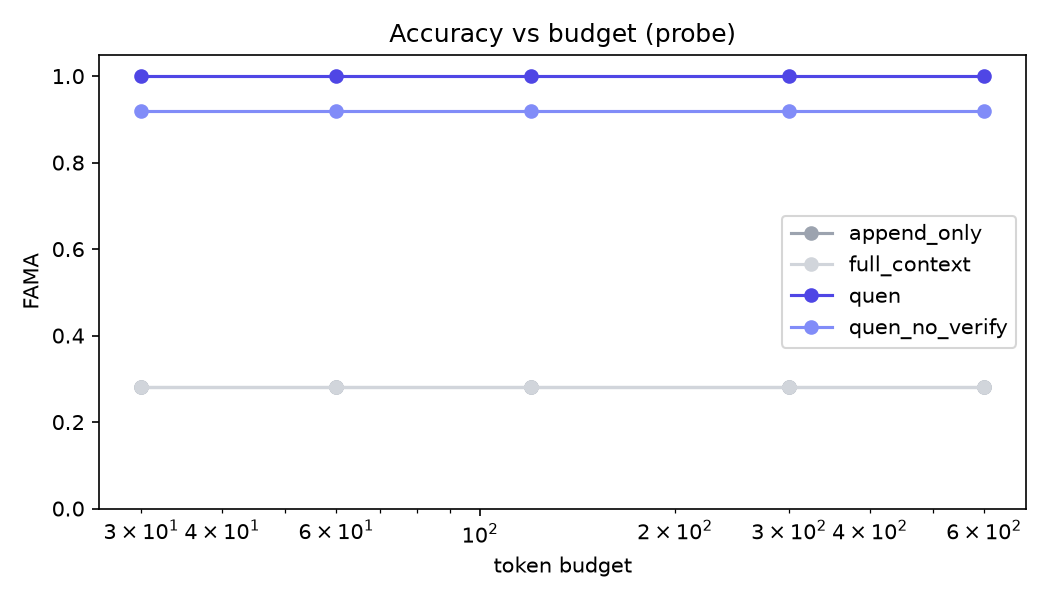
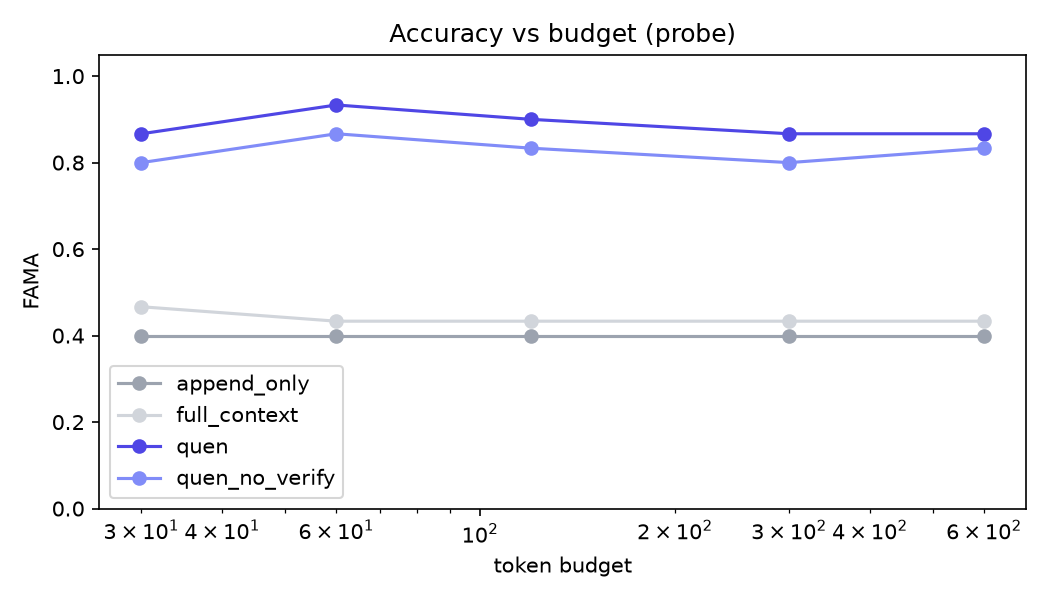
eval: live budget curve + regenerated charts; README complete
Budget curve (live, 5 budgets × 4 configs): baselines flat 0.40-0.47 at
every budget — their probe failures are trust failures, not budget
starvation — while Quên holds 0.87-0.93 from budget 30 up. All charts
regenerated from the canonical live outputs. Final suite: 155 passed;
canonical pass total ≈ $1.6.

Claude-Session: https://claude.ai/code/session_01XjDY5TSEFi88vgum3RCWso

diff --git a/README.md b/README.md
@@ -167,7 +167,21 @@ the evidence for *any* question, so it declines everything — including the
 
 ### Accuracy-vs-budget curve (live)
 
-<!-- BUDGET_CURVE_LIVE -->
+FAMA on the probe at five token budgets (chart: `eval/out/budget_curve.png`):
+
+| budget | append-only | full-context | **Quên** | Quên − verify |
+|---|---|---|---|---|
+| 30 | 0.40 | 0.47 | **0.87** | 0.80 |
+| 60 | 0.40 | 0.43 | **0.93** | 0.87 |
+| 120 | 0.40 | 0.43 | **0.90** | 0.83 |
+| 300 | 0.40 | 0.43 | **0.87** | 0.80 |
+| 600 | 0.40 | 0.43 | **0.87** | 0.83 |
+
+The baselines are *flat*: probe memories are small enough that everything
+they retrieve already fits at budget 30, so their failures are trust
+failures (echoing invalidated facts), not budget starvation — no amount of
+context fixes that. Quên holds its margin at every budget and needs only
+~27 delivered tokens/query to do it.
 
 ### What the canonical run cost (from `usage_summary()` counters × DashScope intl pricing)
 
@@ -178,10 +192,11 @@ the evidence for *any* question, so it declines everything — including the
 | LongMemEval baselines (229 × 2) | — | 185k / 30k | 1.57M | 0.26 |
 | LongMemEval Quên (229, full engine) | 6.26M / 1.18M | 293k / 61k | 227k | 1.07 |
 | live demo seed (80-day narrative) | 14k / 2k | 2k / 0.3k | 0.3k | 0.003 |
-| **total (canonical pass)** | | | | **≈ $1.4**³ |
+| budget curve (30 × 4 × 5 budgets) | 346k / 72k | 150k / 26k | 16k | 0.17 |
+| **total (canonical pass)** | | | | **≈ $1.6** |
 
-³ Plus the budget-curve stage (see chart). A full from-scratch reproduction
-of every live number in this README lands well under $5.
+A full from-scratch reproduction of every live number in this README lands
+well under $5.
 
 ### Offline dry-run (no API key — deterministic pipeline validation)
 
